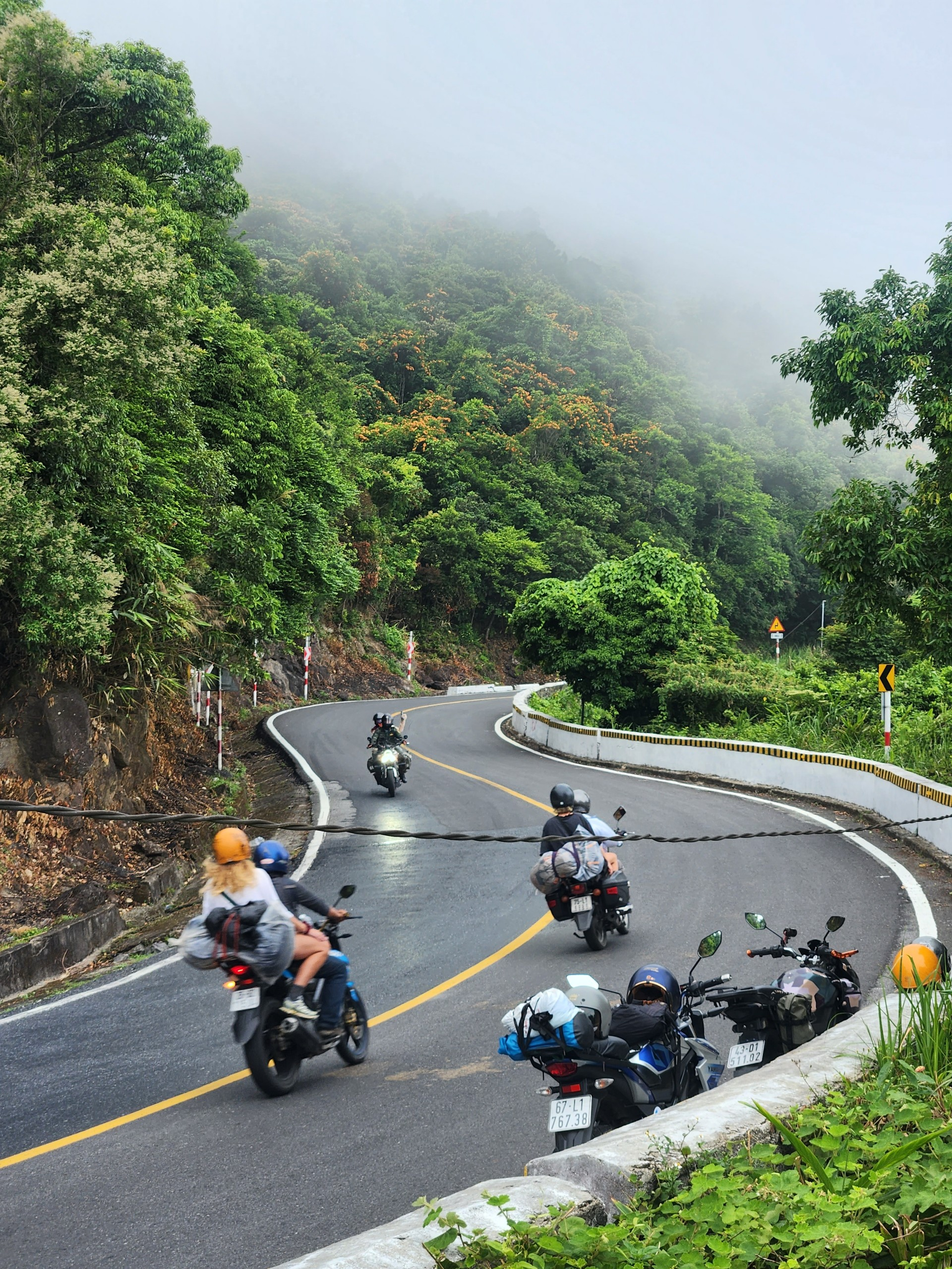
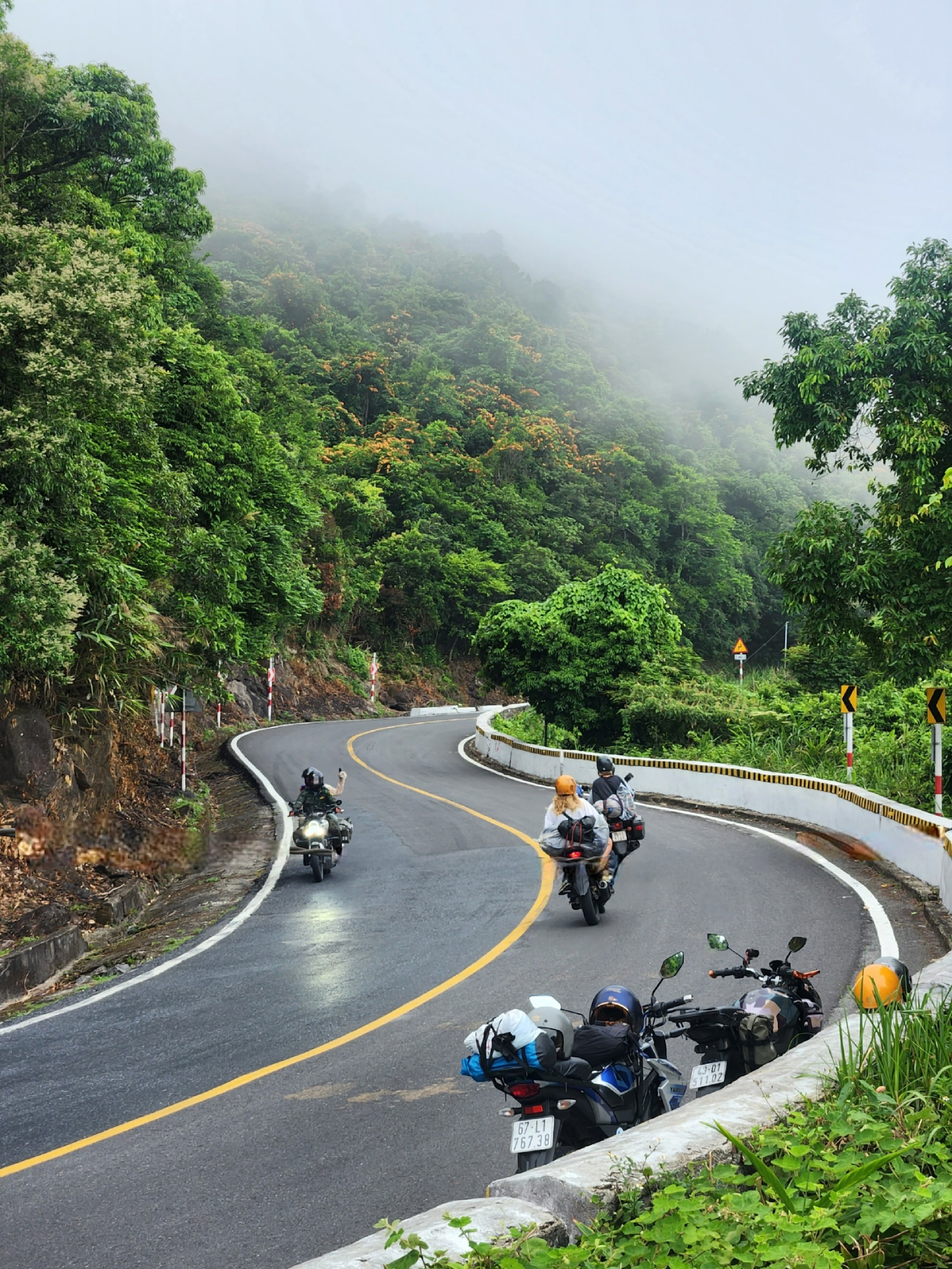
feat: implement responsive landing page components including Hero, FeaturedTours, and FinalCta sections with i18n support.

diff --git a/src/components/home/FeaturedTours.tsx b/src/components/home/FeaturedTours.tsx
@@ -14,46 +14,64 @@ export default function FeaturedTours() {
     en: {
       subtitle: "OUR JOURNEYS",
       title: "Featured Tours",
-      viewTour: "View Tour",
+      viewTour: "Explore Itinerary",
       duration: "Duration",
-      transport: "Transport"
+      transport: "Transport",
+      bestSeller: "Bestseller",
+      viewAll: "Explore All Tours",
+      startingAt: "From",
     },
     vi: {
       subtitle: "HÀNH TRÌNH CỦA CHÚNG TÔI",
       title: "Các Tour Nổi Bật",
-      viewTour: "Xem Chi Tiết",
+      viewTour: "Xem Lịch Trình",
       duration: "Thời gian",
-      transport: "Di chuyển"
+      transport: "Di chuyển",
+      bestSeller: "Bán Chạy Nhất",
+      viewAll: "Xem Tất Cả Các Tour",
+      startingAt: "Chỉ từ",
     }
   };
 
   const lang = t[currentLocale];
 
+  // Assign a marketing badge specifically to the first two tours to make them stand out
+  const getBadge = (id: string, index: number) => {
+    if (index === 0) return lang.bestSeller;
+    if (index === 1 && id.includes('dmz')) return isVi ? 'Lịch Sử Hào Hùng' : 'Top Historical';
+    return null;
+  };
+
   return (
     <section className="bg-[var(--color-limestone)] py-16 lg:py-40 px-5 sm:px-6">
       <div className="max-w-[var(--container-max)] mx-auto">
-        <div className="mb-16 lg:mb-24 flex flex-col items-start gap-4">
-          <p className="text-small font-semibold tracking-widest uppercase text-[var(--color-terracotta)]">
+        <div className="mb-12 lg:mb-24 flex flex-col items-start gap-4">
+          <p className="text-[0.875rem] font-bold tracking-[0.2em] uppercase text-[var(--color-terracotta)]">
             {lang.subtitle}
           </p>
-          <h2 className="text-h2 lg:text-[3.5rem] font-display text-[var(--color-ink)] leading-[1.1] tracking-tight">
+          <h2 className="text-[2.2rem] sm:text-h2 lg:text-[3.5rem] font-display text-[var(--color-ink)] leading-[1.1] tracking-tight">
             {lang.title}
           </h2>
         </div>
 
-        <div className="grid grid-cols-1 sm:grid-cols-2 gap-10 lg:gap-12">
-          {tours.map((tour) => {
-            // For now, exclude draft tours or those without slugs
+        <div className="grid grid-cols-1 md:grid-cols-2 gap-10 lg:gap-14">
+          {tours.map((tour, index) => {
             if (!tour.slug) return null;
+            const badge = getBadge(tour.id, index);
 
             return (
               <Link 
                 key={tour.id} 
                 href={`/${currentLocale}/tours/${tour.slug}`}
-                className="group flex flex-col gap-6"
+                className="group flex flex-col bg-white rounded-[var(--radius-lg)] overflow-hidden shadow-sm hover:shadow-xl transition-all duration-300 focus-visible:outline-2 focus-visible:outline-[var(--color-terracotta)]"
               >
                 {/* Image Container */}
-                <div className="relative w-full aspect-[4/3] rounded-[var(--radius-md)] overflow-hidden bg-[var(--color-sand)]">
+                <div className="relative w-full aspect-[4/3] sm:aspect-[16/10] bg-[var(--color-sand)] overflow-hidden">
+                  {badge && (
+                    <div className="absolute top-4 left-4 z-10 bg-[var(--color-terracotta)] text-white text-xs font-bold tracking-wider uppercase px-4 py-1.5 rounded-[var(--radius-pill)] shadow-md">
+                      {badge}
+                    </div>
+                  )}
                   <Image 
                     src={tour.image} 
                     alt={isVi ? tour.title.vi : tour.title.en}
@@ -61,32 +79,43 @@ export default function FeaturedTours() {
                     className="object-cover transition-transform duration-700 group-hover:scale-105"
                     sizes="(max-width: 768px) 100vw, 50vw"
                   />
-                  <div className="absolute inset-0 bg-black/10 group-hover:bg-transparent transition-colors duration-500" />
+                  <div className="absolute inset-0 bg-gradient-to-t from-black/50 via-transparent to-transparent opacity-60 group-hover:opacity-40 transition-opacity" />
+                  
+                  {/* Floating Price Tag */}
+                  <div className="absolute bottom-4 right-4 z-10 bg-white/95 backdrop-blur-sm text-[var(--color-ink)] px-4 py-2 rounded-[var(--radius-md)] shadow-lg font-semibold flex flex-col items-end">
+                    <span className="text-[0.65rem] uppercase tracking-widest text-[var(--color-ink)]/60 leading-none mb-1">
+                      {lang.startingAt}
+                    </span>
+                    <span className="text-lg leading-none">
+                      {tour.price}
+                    </span>
+                  </div>
                 </div>
 
-                {/* Content */}
-                <div className="flex flex-col gap-3">
-                  <h3 className="text-h3 font-display text-[var(--color-ink)] group-hover:text-[var(--color-terracotta)] transition-colors">
+                {/* Content Container - Generous padding for mobile tap targets */}
+                <div className="flex flex-col gap-4 p-6 sm:p-8 flex-1">
+                  <h3 className="text-2xl sm:text-[1.75rem] font-display text-[var(--color-ink)] group-hover:text-[var(--color-terracotta)] transition-colors leading-tight">
                     {isVi ? tour.title.vi : tour.title.en}
                   </h3>
                   
-                  <p className="text-body text-[var(--color-ink)] opacity-70 line-clamp-2">
+                  {/* High readability text for all users */}
+                  <p className="text-base sm:text-lg text-[var(--color-ink)]/75 line-clamp-2 leading-relaxed">
                     {isVi ? tour.shortDescription.vi : tour.shortDescription.en}
                   </p>
                   
-                  <div className="flex flex-wrap items-center gap-x-6 gap-y-2 mt-2 text-small text-[var(--color-ink)] opacity-60">
+                  <div className="flex flex-wrap items-center gap-x-6 gap-y-3 mt-2 py-4 border-y border-[var(--color-ink)]/10 text-sm sm:text-base text-[var(--color-ink)]/70">
                     <span className="flex items-center gap-2">
-                      <span className="font-semibold uppercase tracking-wider">{lang.duration}:</span>
+                      <span className="font-semibold uppercase tracking-wider text-[var(--color-ink)]/90 text-xs">{lang.duration}:</span>
                       {tour.duration}
                     </span>
                     <span className="flex items-center gap-2">
-                      <span className="font-semibold uppercase tracking-wider">{lang.transport}:</span>
+                      <span className="font-semibold uppercase tracking-wider text-[var(--color-ink)]/90 text-xs">{lang.transport}:</span>
                       {isVi ? tour.transport.vi : tour.transport.en}
                     </span>
                   </div>
                   
-                  <div className="mt-2 text-body font-semibold text-[var(--color-ink)] border-b border-[var(--color-ink)] self-start pb-1 opacity-80 group-hover:opacity-100 group-hover:border-[var(--color-terracotta)] transition-all">
-                    {lang.viewTour} &rarr;
+                  <div className="mt-2 w-full text-center py-3.5 sm:py-4 rounded-[var(--radius-pill)] border-2 border-[var(--color-ink)] text-[var(--color-ink)] font-bold text-base group-hover:bg-[var(--color-ink)] group-hover:text-[var(--color-limestone)] transition-all">
+                    {lang.viewTour}
                   </div>
                 </div>
               </Link>
@@ -94,12 +123,12 @@ export default function FeaturedTours() {
           })}
         </div>
 
-        <div className="mt-16 lg:mt-24 flex justify-center">
+        <div className="mt-16 flex justify-center">
           <Link 
             href={`/${currentLocale}/tours`}
-            className="px-8 py-4 rounded-[var(--radius-pill)] border border-[var(--color-ink)] text-[var(--color-ink)] font-semibold text-body hover:bg-[var(--color-ink)] hover:text-[var(--color-limestone)] transition-colors"
+            className="w-full sm:w-auto text-center px-8 py-4 sm:py-5 rounded-[var(--radius-pill)] border-2 border-[var(--color-ink)] text-[var(--color-ink)] font-bold text-lg hover:bg-[var(--color-ink)] hover:text-[var(--color-limestone)] transition-colors"
           >
-            {isVi ? 'Xem Tất Cả Các Tour' : 'Explore All Tours'} &rarr;
+            {lang.viewAll}
           </Link>
         </div>
       </div>

diff --git a/src/components/home/FinalCta.tsx b/src/components/home/FinalCta.tsx
@@ -11,13 +11,15 @@ export default function FinalCta() {
       subtitle: "READY TO RIDE?",
       title: "Let's plan your journey.",
       description: "Drop us a message on WhatsApp. We'll help you figure out the best route based on the weather, your timeline, and what you want to see.",
-      buttonText: "Message on WhatsApp"
+      buttonText: "Message on WhatsApp",
+      badges: ["No Hidden Fees", "Free Cancellation", "Book Now, Pay Later"]
     },
     vi: {
       subtitle: "SẴN SÀNG LÊN ĐƯỜNG?",
       title: "Lên kế hoạch chuyến đi.",
       description: "Gửi tin nhắn cho chúng tôi qua WhatsApp. Chúng tôi sẽ tư vấn lộ trình phù hợp nhất dựa trên thời tiết, thời gian và sở thích của bạn.",
-      buttonText: "Nhắn tin qua WhatsApp"
+      buttonText: "Nhắn tin qua WhatsApp",
+      badges: ["Không Phí Ẩn", "Hủy Miễn Phí", "Đặt Trước, Trả Sau"]
     }
   };
 
@@ -39,15 +41,27 @@ export default function FinalCta() {
           {lang.description}
         </p>
 
-        <a 
-          href="https://wa.me/84899215366?text=Hi%20I%27d%20like%20to%20plan%20a%20trip" 
-          target="_blank" 
-          rel="noopener noreferrer" 
-          className="btn-primary mt-4 w-full sm:w-auto text-center min-h-[52px] flex items-center justify-center"
-        >
-          {lang.buttonText} →
-        </a>
-      </div>
+          <a 
+            href="https://wa.me/84899215366?text=Hi%20I%27d%20like%20to%20plan%20a%20trip" 
+            target="_blank" 
+            rel="noopener noreferrer" 
+            className="btn-primary mt-4 w-full sm:w-auto text-center min-h-[56px] text-lg px-10 flex items-center justify-center hover:scale-105 transition-transform"
+          >
+            {lang.buttonText} →
+          </a>
+
+          {/* Trust Badges / Marketing Hooks */}
+          <div className="flex flex-wrap justify-center items-center gap-4 sm:gap-8 mt-6">
+            {lang.badges.map((badge, idx) => (
+              <div key={idx} className="flex items-center gap-2 text-[0.875rem] font-semibold text-[var(--color-ink)]/70">
+                <svg className="w-5 h-5 text-[var(--color-terracotta)]" fill="none" viewBox="0 0 24 24" stroke="currentColor">
+                  <path strokeLinecap="round" strokeLinejoin="round" strokeWidth={2.5} d="M5 13l4 4L19 7" />
+                </svg>
+                {badge}
+              </div>
+            ))}
+          </div>
+        </div>
     </section>
   );
 }

diff --git a/src/components/home/Hero.tsx b/src/components/home/Hero.tsx
@@ -19,6 +19,7 @@ const partnerLogos: LogoItem[] = [
 export default function Hero() {
   const pathname = usePathname();
   const currentLocale = pathname?.startsWith('/vi') ? 'vi' : 'en';
+  const isVi = currentLocale === 'vi';
 
   const t = {
     en: {
@@ -69,16 +70,26 @@ export default function Hero() {
             <p className="text-body-lg opacity-80 max-w-md">
               {lang.description}
             </p>
-            <div className="flex flex-col sm:flex-row items-stretch sm:items-center gap-3 mt-6">
-              <Link href={`/${currentLocale}/plan`} className="btn-primary w-full sm:w-auto text-center min-h-[52px] flex items-center justify-center">
+            <div className="flex flex-col sm:flex-row items-stretch sm:items-center gap-4 mt-6">
+              <Link href={`/${currentLocale}/plan`} className="btn-primary w-full sm:w-auto text-center min-h-[52px] flex items-center justify-center hover:scale-105 transition-transform shadow-lg shadow-black/20">
                 {lang.primaryCta}
               </Link>
               <Link
                 href={`/${currentLocale}/tours`}
-                className="w-full sm:w-auto text-center px-6 py-3.5 rounded-[var(--radius-pill)] border border-[var(--color-limestone)] border-opacity-30 hover:bg-[var(--color-limestone)] hover:text-[var(--color-ink)] transition-colors font-semibold min-h-[52px] flex items-center justify-center"
+                className="w-full sm:w-auto text-center px-6 py-3.5 rounded-[var(--radius-pill)] border-2 border-[var(--color-limestone)] border-opacity-40 hover:bg-[var(--color-limestone)] hover:text-[var(--color-ink)] transition-colors font-semibold min-h-[52px] flex items-center justify-center backdrop-blur-sm bg-black/10"
               >
                 {lang.secondaryCta}
               </Link>
+            </div>
+            
+            {/* Trust Element */}
+            <div className="mt-4 flex items-center gap-3 opacity-90">
+              <div className="flex items-center text-[#fbbf24] text-lg">
+                ★★★★★
+              </div>
+              <span className="text-sm font-semibold tracking-wide text-white/80">
+                {isVi ? 'Đánh giá 5.0 từ khách hàng quốc tế' : '5.0 Rated by International Travelers'}
+              </span>
             </div>
           </div>
         </div>

diff --git a/src/components/Header.tsx b/src/components/Header.tsx
@@ -51,6 +51,12 @@ export default function Header() {
           {/* Logo */}
           <Link
             href={`/${currentLocale}`}
+            onClick={(e) => {
+              if (pathname === `/${currentLocale}` || pathname === `/${currentLocale}/`) {
+                e.preventDefault();
+                window.scrollTo({ top: 0, behavior: 'smooth' });
+              }
+            }}
             className="flex items-center gap-3 shrink-0 hover:opacity-80 transition-opacity focus-visible:outline-2 focus-visible:outline-[var(--color-terracotta)]"
           >
             <Image
